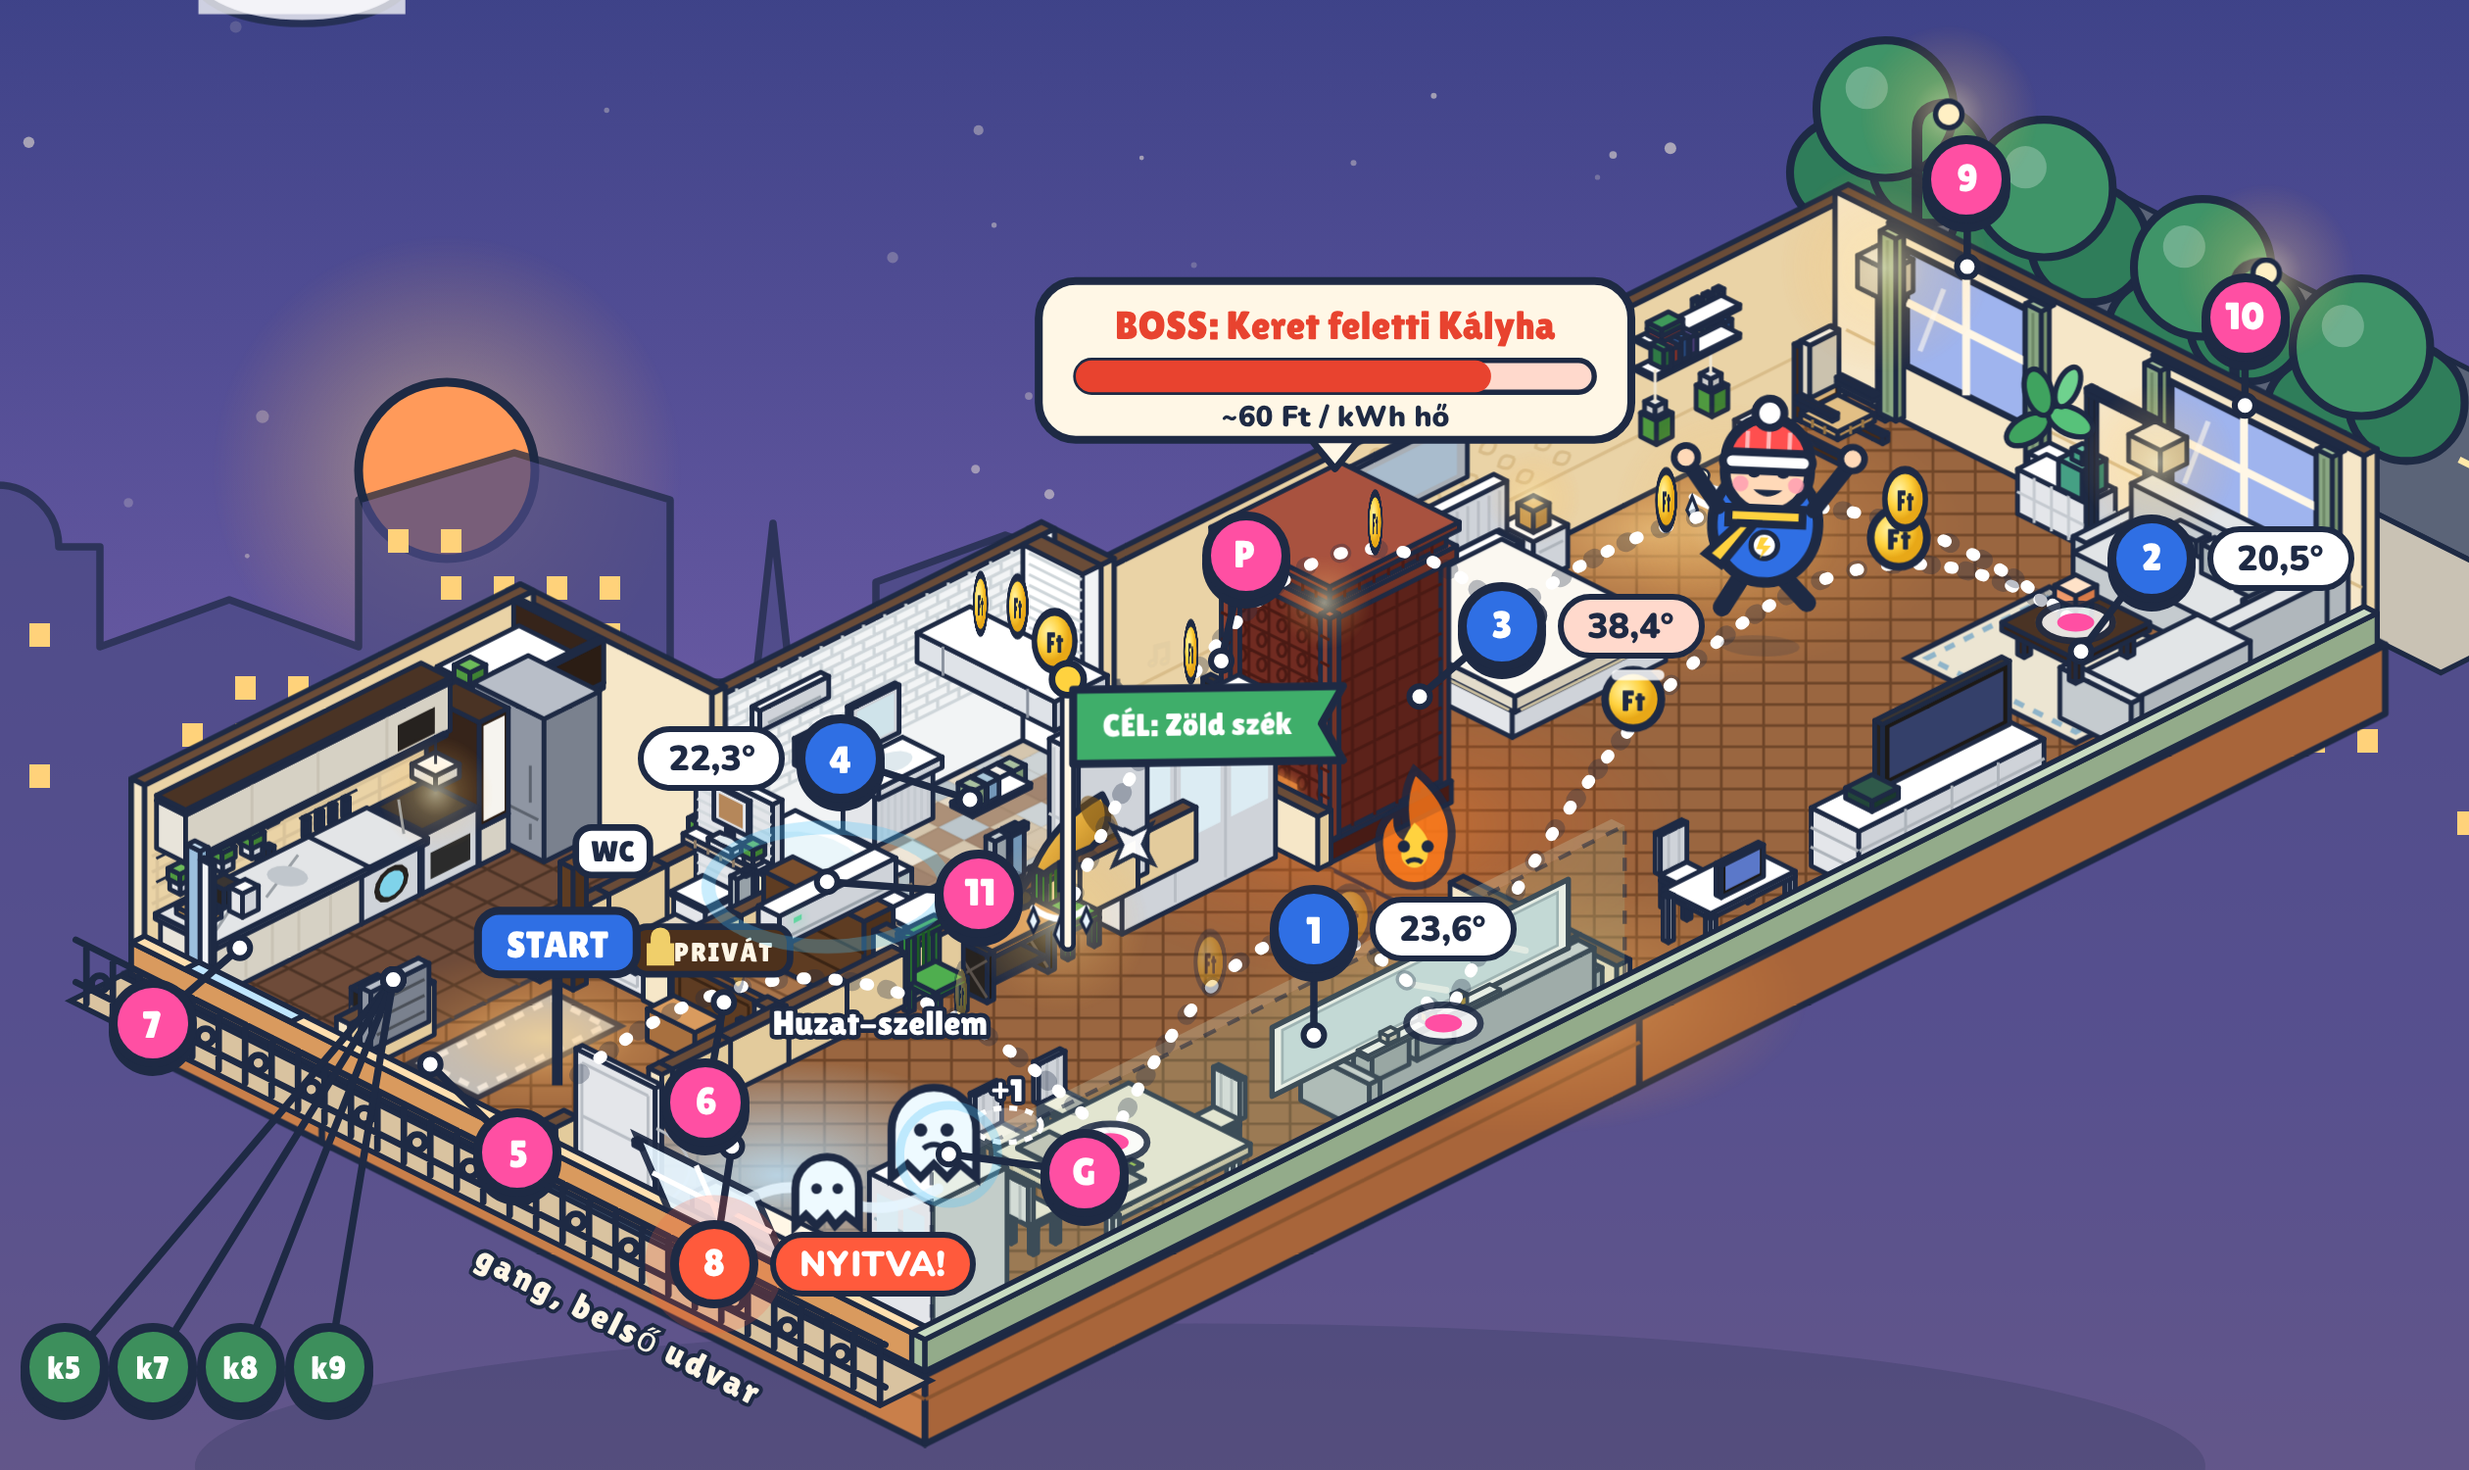
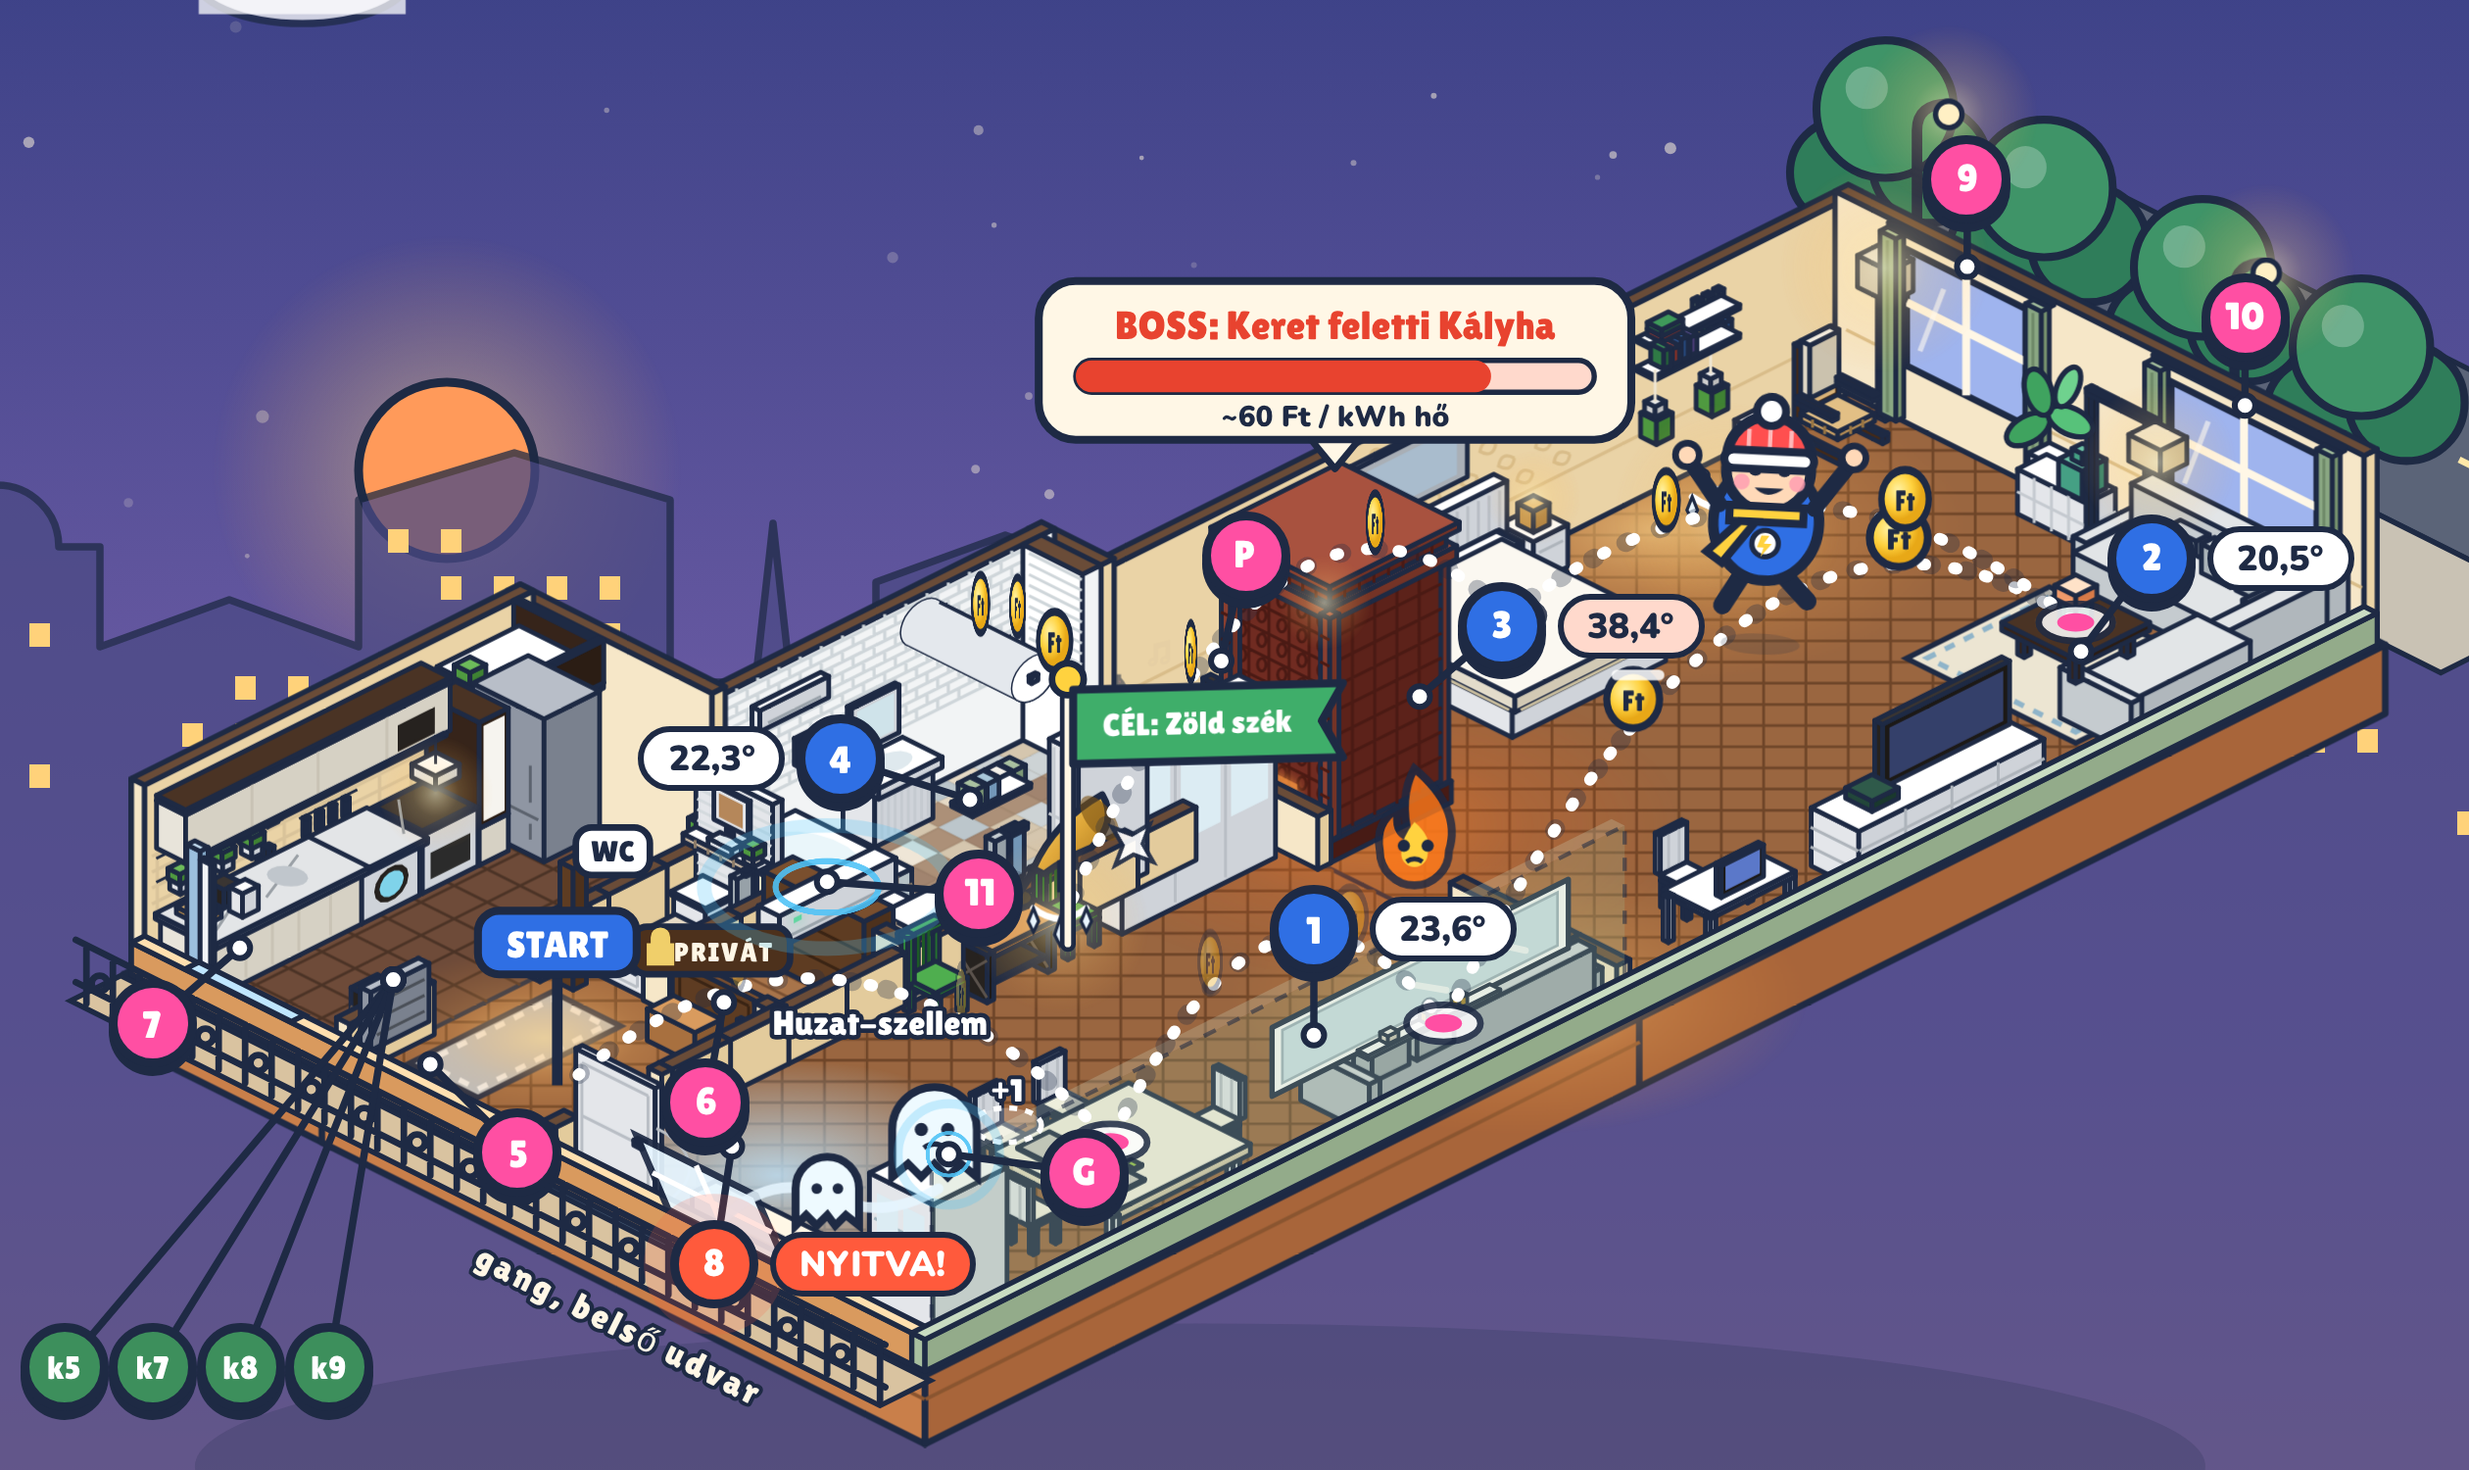
Bojler: fekvő henger (G3 mockup és brief)
Claude-Session: https://claude.ai/code/session_01VbmfDGzvptcDSMkRn4AQSo

diff --git a/CLAUDE.md b/CLAUDE.md
@@ -85,7 +85,7 @@ Megjegyzés: a Wi-Fi-s elemes hőmérők sokat alszanak, ritkábban jelentenek, 
 - **Cserépkályha (W):** hőtárolós, kb. 2 m magas, 1 m mély, 90 cm széles. 3 fokozat egyenként kapcsolható, 1 kW-onként, max 3 kW. "Közepes" = 2 kW. 10-12 óra közepes töltés után 8-10 óra múlva is langyos. **A B (vezérelt) mérőn van.**
 - **Klíma (11):** Gree Comfort X 3,5 kW oldalfali split, inverteres hőszivattyú, fűtésre és hűtésre. 2020-ban szerelve. IR-rel vezérelt a Zigbee gatewayen keresztül. **Az A1 mérőn van** (9-es kör).
 - **Gázkonvektor:** Lampart Gála Elegance 50 parapetes (875734), a kis szoba ablaka alatt (8). Egész télen be van kapcsolva, a vendég tekergeti a gombját. Nincs okos vezérlése.
-- **Bojler:** Hajdu ZV120, vízszintes elektromos melegvíztároló, a fürdő álmennyezete felett. Hőfoka fixen beállítva, értéke ismeretlen. **A B (vezérelt) mérőn van**, a 7-es okos kismegszakítóval távolról kapcsolható.
+- **Bojler:** Hajdu ZV120, fekvő, henger alakú elektromos melegvíztároló (120 l), a fürdő álmennyezete felett. Hőfoka fixen beállítva, értéke ismeretlen. **A B (vezérelt) mérőn van**, a 7-es okos kismegszakítóval távolról kapcsolható.
 - **Fürdő fali fűtőtest:** körét nem tudjuk.
 
 ## 5. Villamos energia
